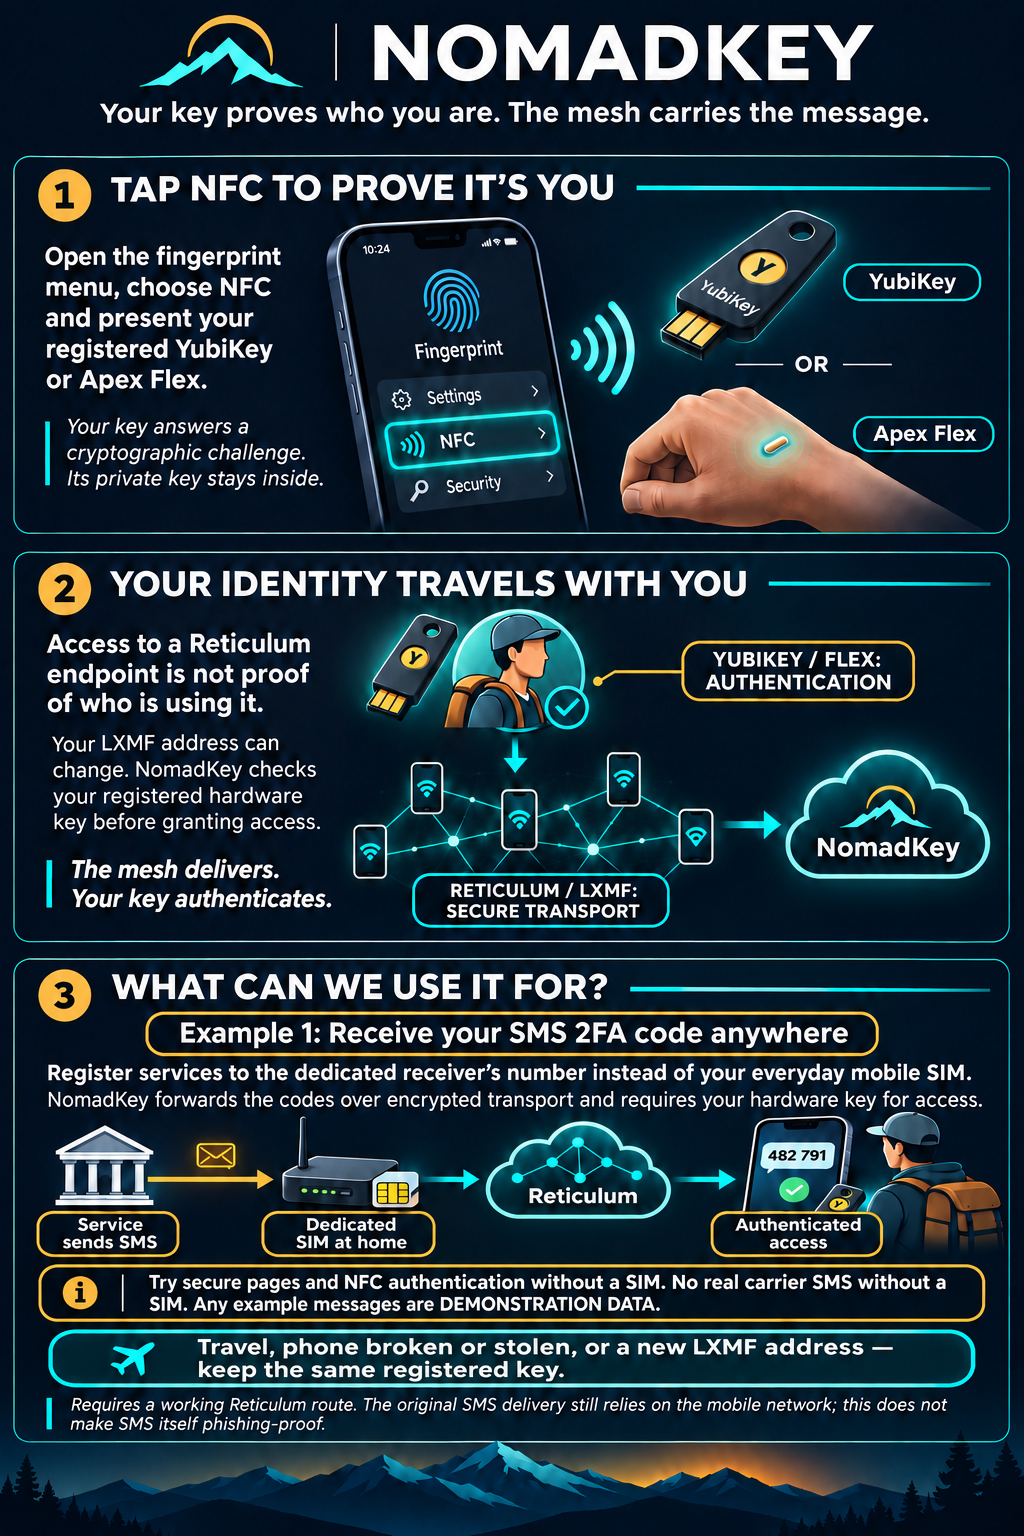
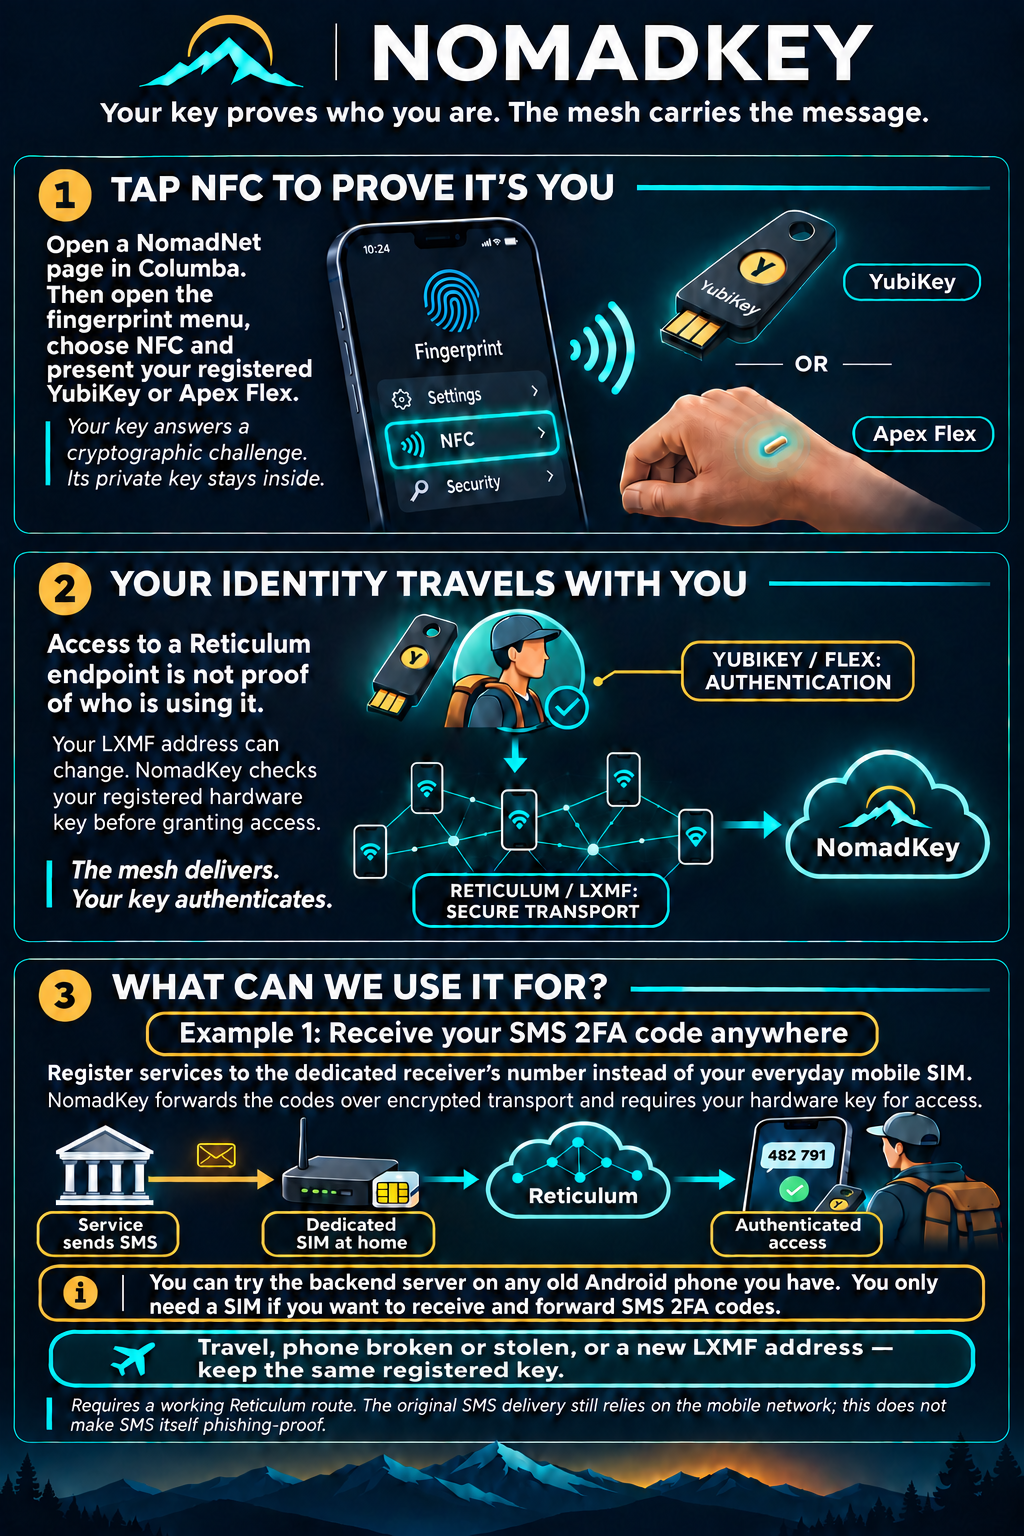
docs: simplify Android trial and begin NFC instructions with opening a page

diff --git a/README.md b/README.md
@@ -23,11 +23,9 @@ My solution is to keep the SIM used for SMS 2FA safely at home in an old Android
 
 The server lets authenticated users read Android-visible SMS on protected pages. Registered endpoints default to sender/time alerts without message contents. Current development builds also offer owner-controlled full-message delivery; receiving apps may retain delivered messages. Protected-page access expires after five minutes even while browsing; Forget me ends it sooner.
 
-## Try secure pages without a SIM
+## Try it on an old Android phone
 
-**A SIM is not required to try secure NomadNet pages and NFC authentication.** Use a working Reticulum connection, enroll an approved key and test opening a protected page through NomadKey-enabled Columba. Try expiry and Forget me too.
-
-**Without a SIM, this server cannot receive real carrier SMS.** No-SIM testing demonstrates secure-page access and authentication, not carrier SMS reception or real 2FA delivery. Any sample messages used in a walkthrough must be clearly labelled **DEMONSTRATION DATA â€” not a real SMS or 2FA code**. A no-SIM trial is not a claim that this build has a sample-message generator.
+You can try the backend server on any old Android phone you have. You only need a SIM if you want to receive and forward SMS 2FA codes.
 
 ## How it fits together
 
@@ -48,7 +46,7 @@ This remains a development project. Use a trusted client phone and app, verify t
 
 These are development builds, not official upstream Columba or production releases. Update the matching NomadKey development app in place to preserve identities and enrollment; do not uninstall to bypass an update error. The Columba APK is universal, including S24-compatible arm64 support.
 
-**No-SIM trial:** secure pages and NFC authentication can be tried without a SIM. Real carrier SMS reception requires an active receiving SIM and service. Examples are **DEMONSTRATION DATA**, not real SMS or 2FA codes. Software checks passed; this exact pair has not had a fresh physical Flex/S24 and carrier-SMS acceptance test.
+You can try the backend server on any old Android phone you have. You only need a SIM if you want to receive and forward SMS 2FA codes.
 
 The [Android Host guide](docs/ANDROID-HOST.md) documents the earlier Host setup baseline. See the current release notes above for exact APK versions, checks and source-provenance limitations. Columba source is maintained on [its separate branch](https://github.com/TheBeadster/NomadKey/tree/columba/nomadkey-development).
 
